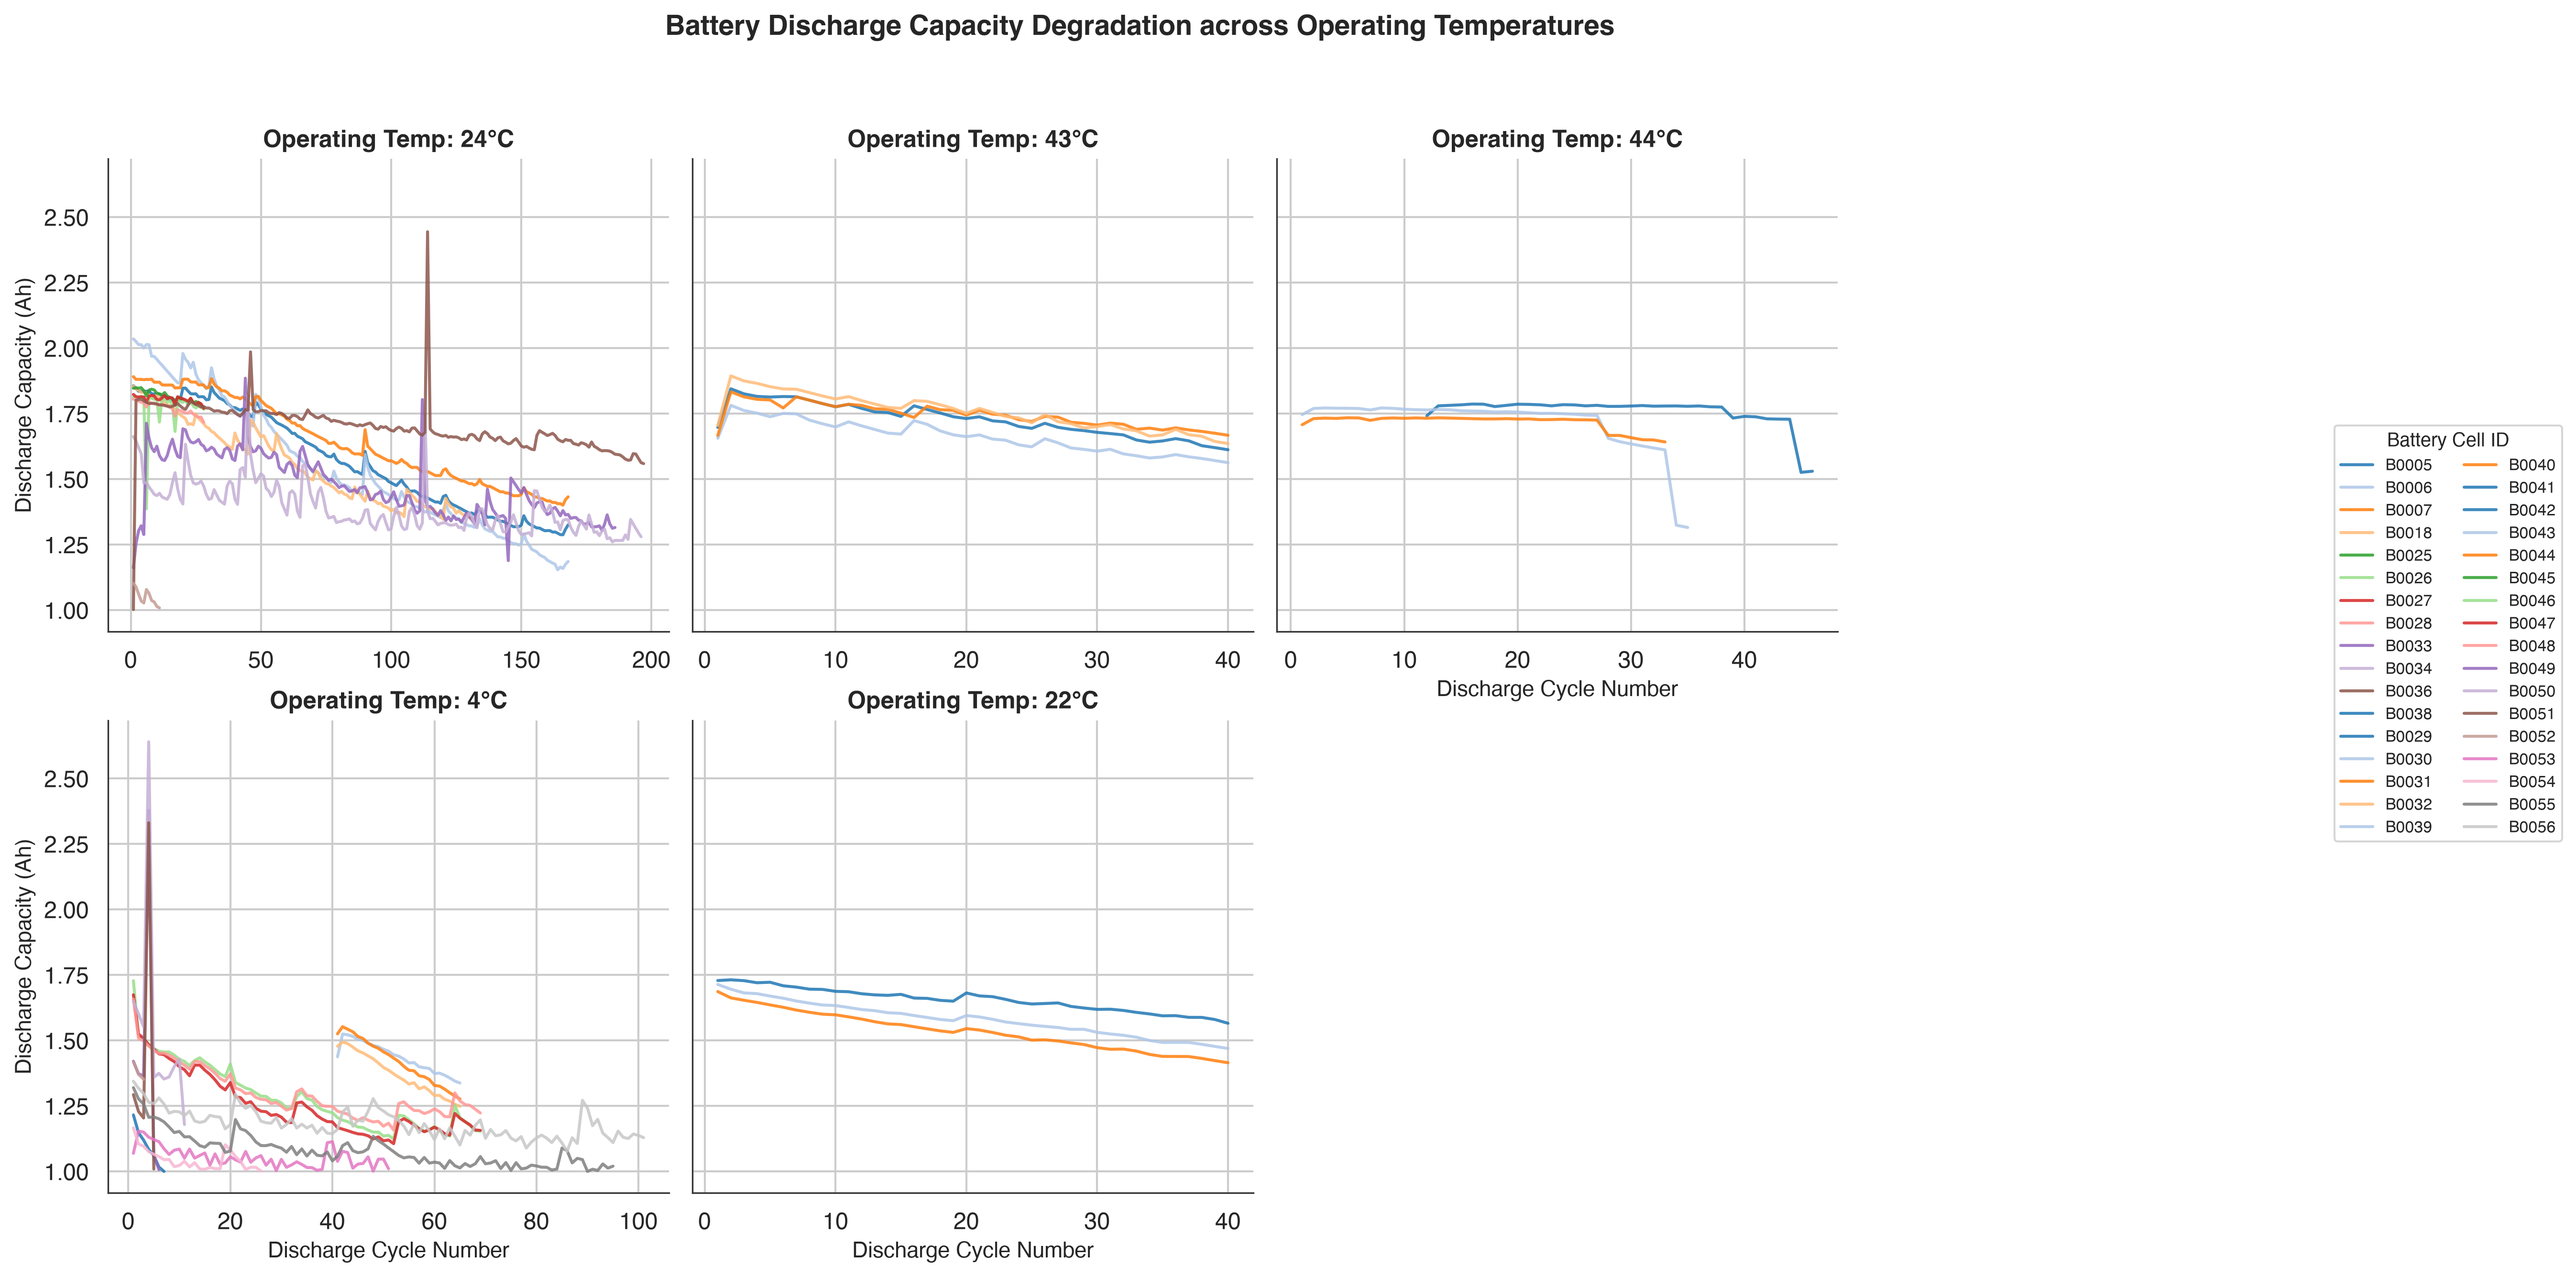
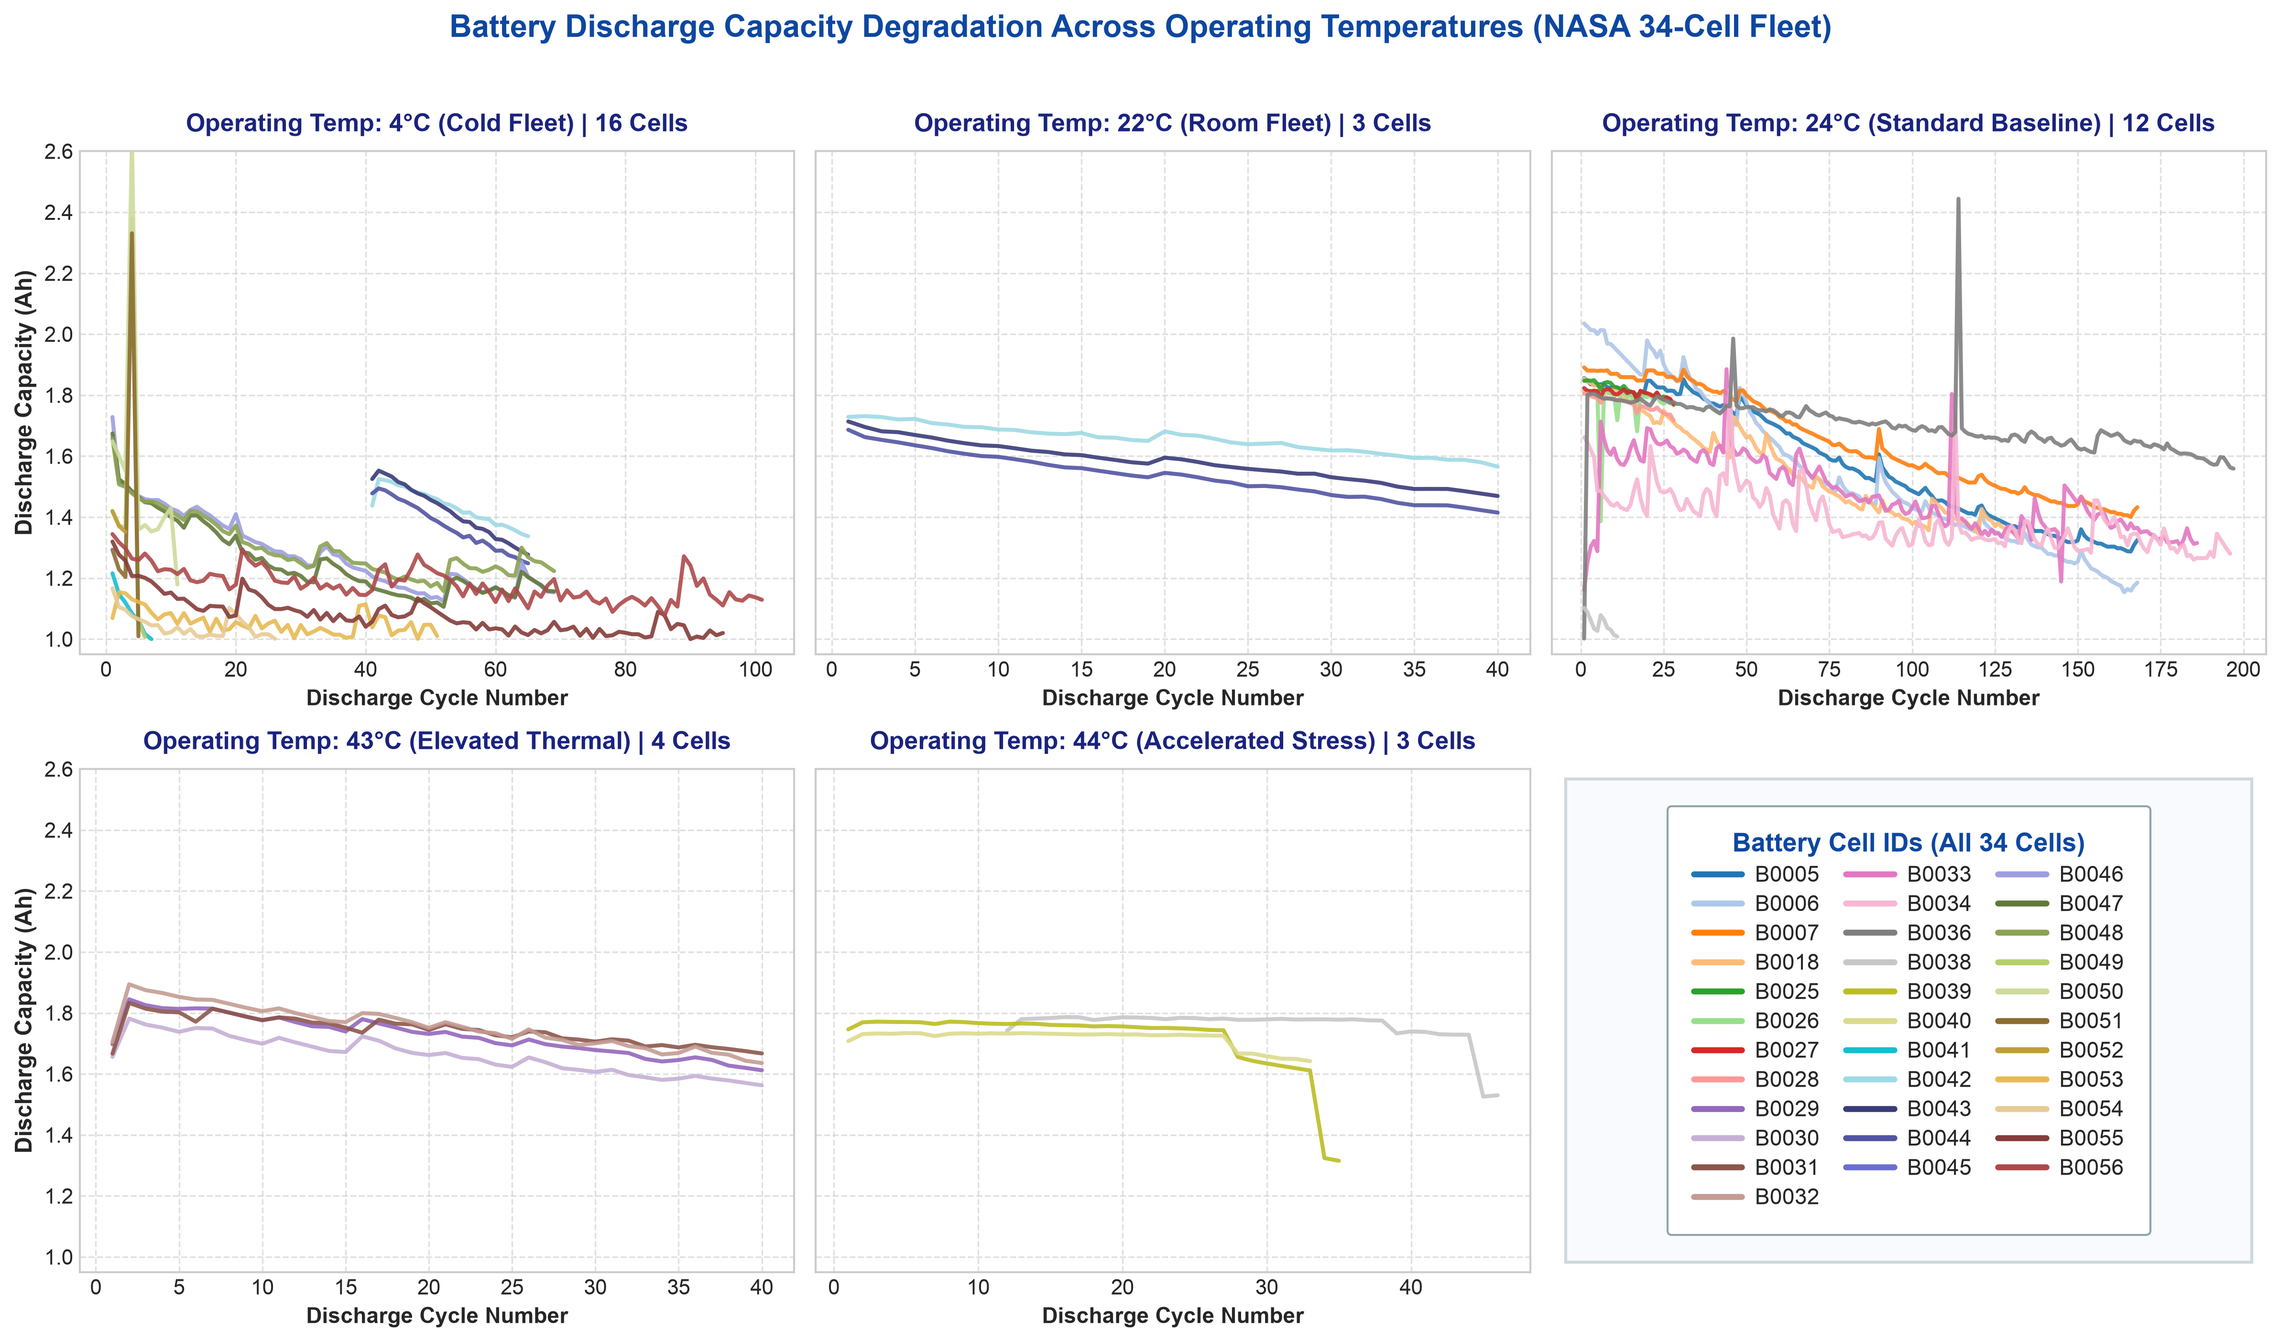
fix(charts): redesign Day 10 capacity fade plot with large dedicated master legend in panel 6

diff --git a/generate_final_publication_charts.py b/generate_final_publication_charts.py
@@ -64,44 +64,73 @@ def generate_day10_charts():
     # Form distinct temperature group labels
     discharge['Cell_Type'] = 'Operating Temp: ' + discharge['ambient_temperature'].astype(str) + '°C'
     
-    # --- CHART 04: Capacity Fade Across Operating Temperatures (2-Column Legend) ---
-    g = sns.FacetGrid(
-        discharge,
-        col="Cell_Type",
-        col_wrap=3,
-        height=4.6,
-        aspect=1.1,
-        sharex=False,
-        sharey=True
-    )
-    g.map_dataframe(
-        sns.lineplot,
-        x="cycle_index",
-        y="Capacity",
-        hue="battery_id",
-        palette="tab20",
-        alpha=0.85,
-        lw=1.5
-    )
-    g.add_legend()
-    # 2-column legend positioned cleanly on the right with no overlap
-    sns.move_legend(
-        g,
-        loc="center left",
-        bbox_to_anchor=(1.01, 0.5),
-        ncol=2,
-        title="Battery Cell ID",
-        frameon=True,
-        fontsize=8,
-        title_fontsize=9.5
-    )
-    g.set_axis_labels("Discharge Cycle Number", "Discharge Capacity (Ah)", fontsize=11, fontweight='medium')
-    g.set_titles(col_template="{col_name}", size=12, weight='bold')
-    plt.subplots_adjust(top=0.86, right=0.80)
-    g.fig.suptitle("Battery Discharge Capacity Degradation across Operating Temperatures", fontsize=14, fontweight='bold', y=0.97)
+    # --- CHART 04: Capacity Fade Across Operating Temperatures (Large Dedicated Master Legend in Panel 6) ---
+    temp_order = [4, 22, 24, 43, 44]
+    temp_titles = {
+        4: 'Operating Temp: 4°C (Cold Fleet)',
+        22: 'Operating Temp: 22°C (Room Fleet)',
+        24: 'Operating Temp: 24°C (Standard Baseline)',
+        43: 'Operating Temp: 43°C (Elevated Thermal)',
+        44: 'Operating Temp: 44°C (Accelerated Stress)'
+    }
     
-    save_plot_variants(g.fig, "04_Day10_Capacity_Fade_By_Ambient_Temperature.png", "Slide06_Day10_Capacity_Fade_By_Temperature.png")
-    plt.close(g.fig)
+    fig, axes = plt.subplots(2, 3, figsize=(16, 9.5), sharey=True)
+    axes_flat = axes.flatten()
+    
+    all_batteries = sorted(discharge['battery_id'].unique())
+    palette = sns.color_palette('tab20', 20) + sns.color_palette('tab20b', 14)
+    color_map = {b: palette[i % len(palette)] for i, b in enumerate(all_batteries)}
+    
+    for i, t in enumerate(temp_order):
+        ax = axes_flat[i]
+        sub = discharge[discharge['ambient_temperature'] == t]
+        cells_in_t = sorted(sub['battery_id'].unique())
+        
+        for b_id in cells_in_t:
+            grp = sub[sub['battery_id'] == b_id]
+            ax.plot(grp['cycle_index'], grp['Capacity'], label=b_id, color=color_map[b_id], lw=2.0, alpha=0.90)
+            
+        ax.set_title(f"{temp_titles[t]} | {len(cells_in_t)} Cells", fontsize=12.5, fontweight='bold', pad=10, color='#1a237e')
+        ax.set_xlabel('Discharge Cycle Number', fontsize=11, fontweight='bold')
+        if i % 3 == 0:
+            ax.set_ylabel('Discharge Capacity (Ah)', fontsize=11.5, fontweight='bold')
+        ax.grid(True, linestyle='--', alpha=0.6)
+        ax.set_ylim(0.95, 2.60)
+        ax.tick_params(labelsize=10.5)
+        
+    # Dedicated Panel 6 for Large, High-Contrast Master Legend
+    ax_legend = axes_flat[5]
+    ax_legend.axis('off')
+    
+    handles = [plt.Line2D([0], [0], color=color_map[b], lw=3.0) for b in all_batteries]
+    leg = ax_legend.legend(
+        handles, all_batteries,
+        title='Battery Cell IDs (All 34 Cells)',
+        title_fontsize=13,
+        fontsize=11,
+        ncol=3,
+        loc='center',
+        frameon=True,
+        facecolor='#ffffff',
+        edgecolor='#90a4ae',
+        framealpha=1.0,
+        columnspacing=1.2,
+        handlelength=2.2,
+        handletextpad=0.6,
+        borderpad=1.2,
+        labelspacing=0.4
+    )
+    leg.get_title().set_fontweight('bold')
+    leg.get_title().set_color('#0d47a1')
+    
+    rect = plt.Rectangle((0.02, 0.02), 0.96, 0.96, fill=True, facecolor='#f8fafd', edgecolor='#cfd8dc', lw=1.5, transform=ax_legend.transAxes, zorder=0)
+    ax_legend.add_patch(rect)
+    
+    fig.suptitle('Battery Discharge Capacity Degradation Across Operating Temperatures (NASA 34-Cell Fleet)', fontsize=15.5, fontweight='bold', y=0.98, color='#0d47a1')
+    plt.tight_layout(rect=[0, 0, 1, 0.96])
+    
+    save_plot_variants(fig, "04_Day10_Capacity_Fade_By_Ambient_Temperature.png", "Slide06_Day10_Capacity_Fade_By_Temperature.png")
+    plt.close(fig)
 
     # --- CHART 05A: Discharge Capacity vs Cycle Index ---
     fig_cap, ax_cap = plt.subplots(figsize=(11, 5.5))
